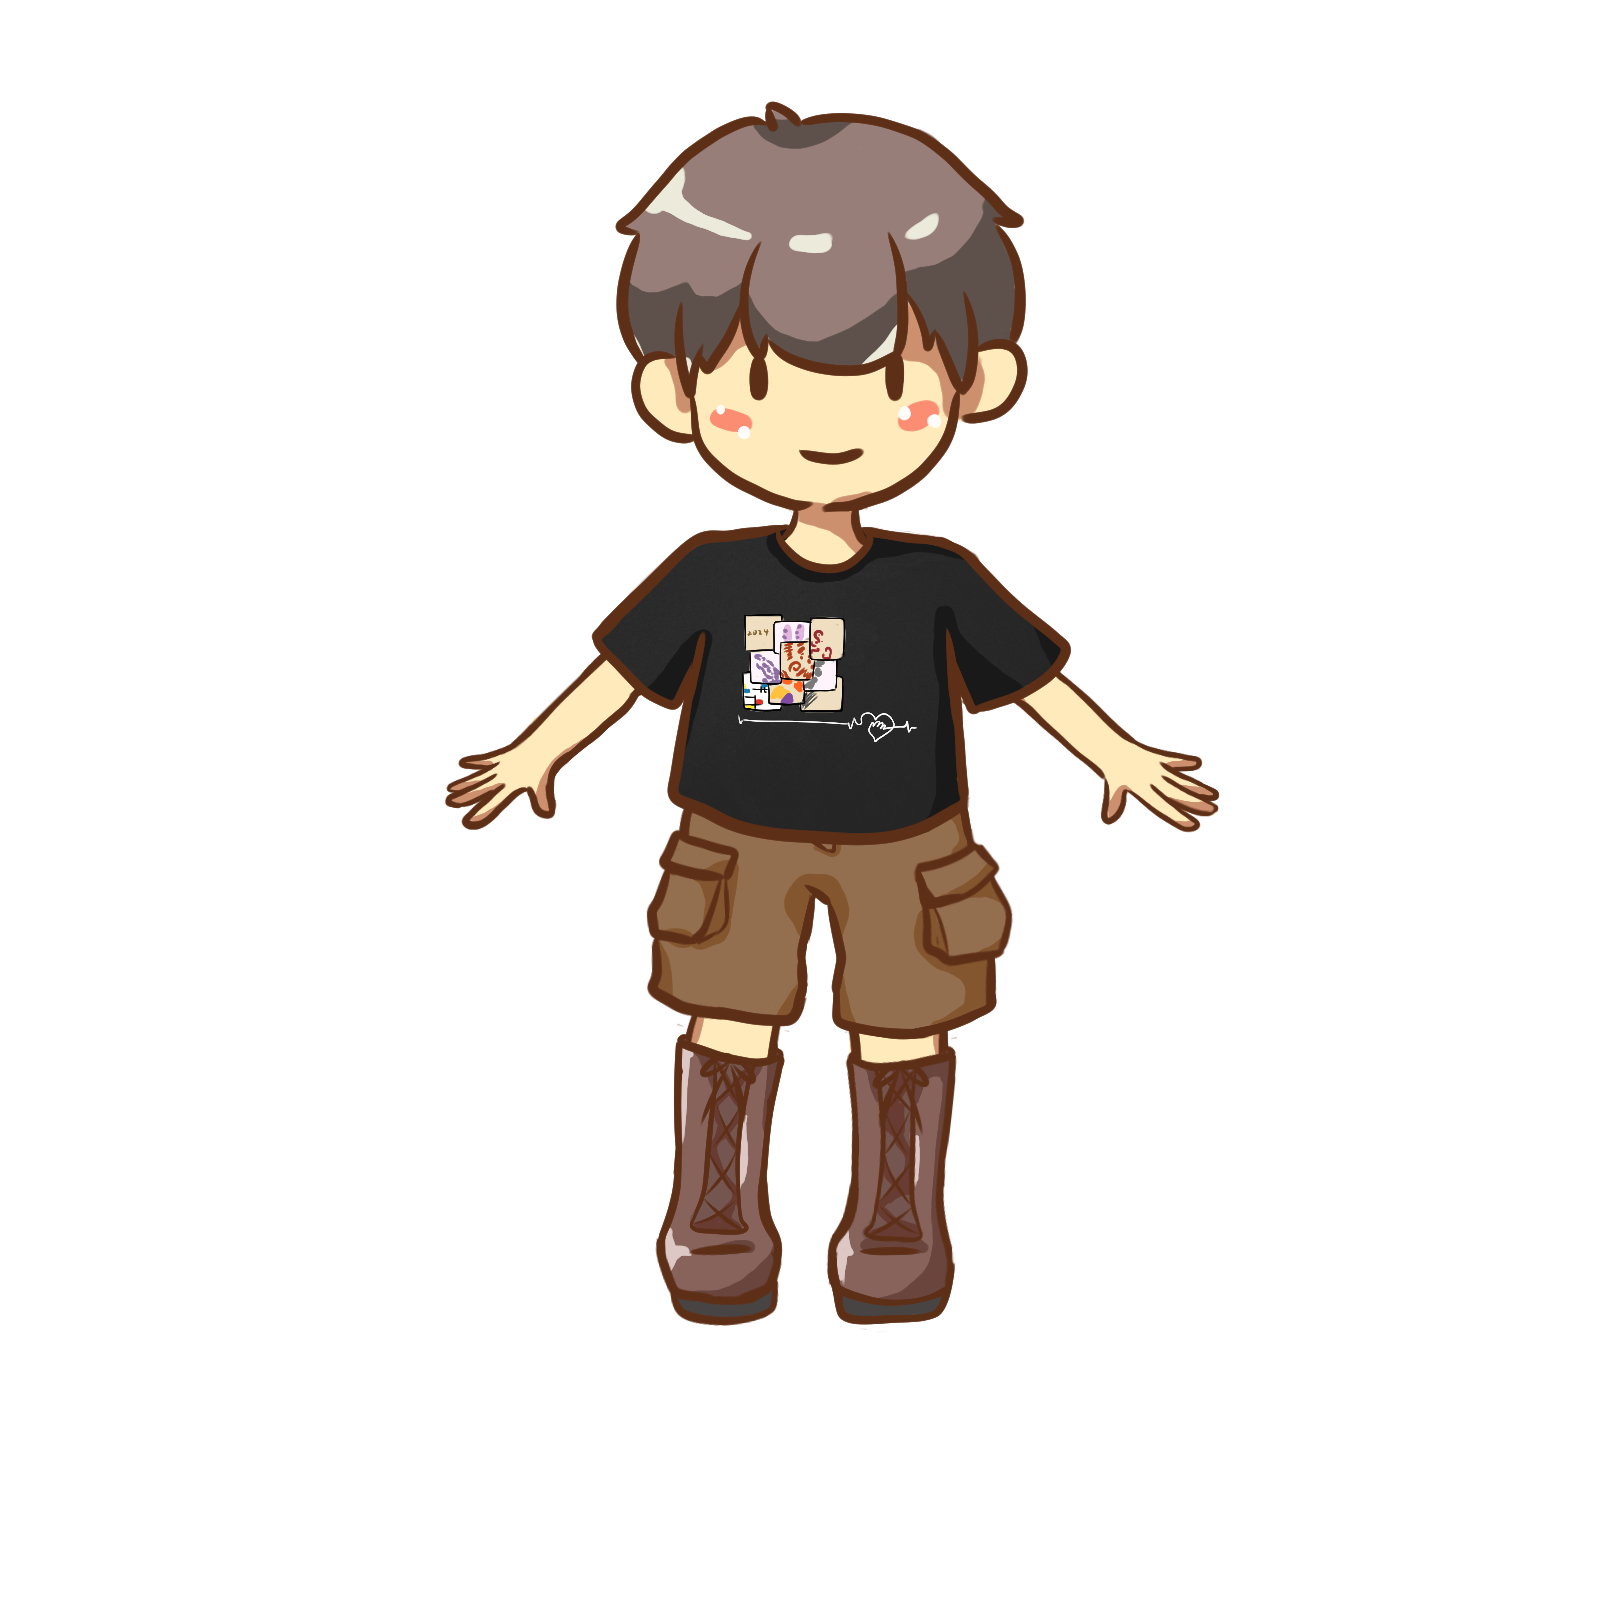
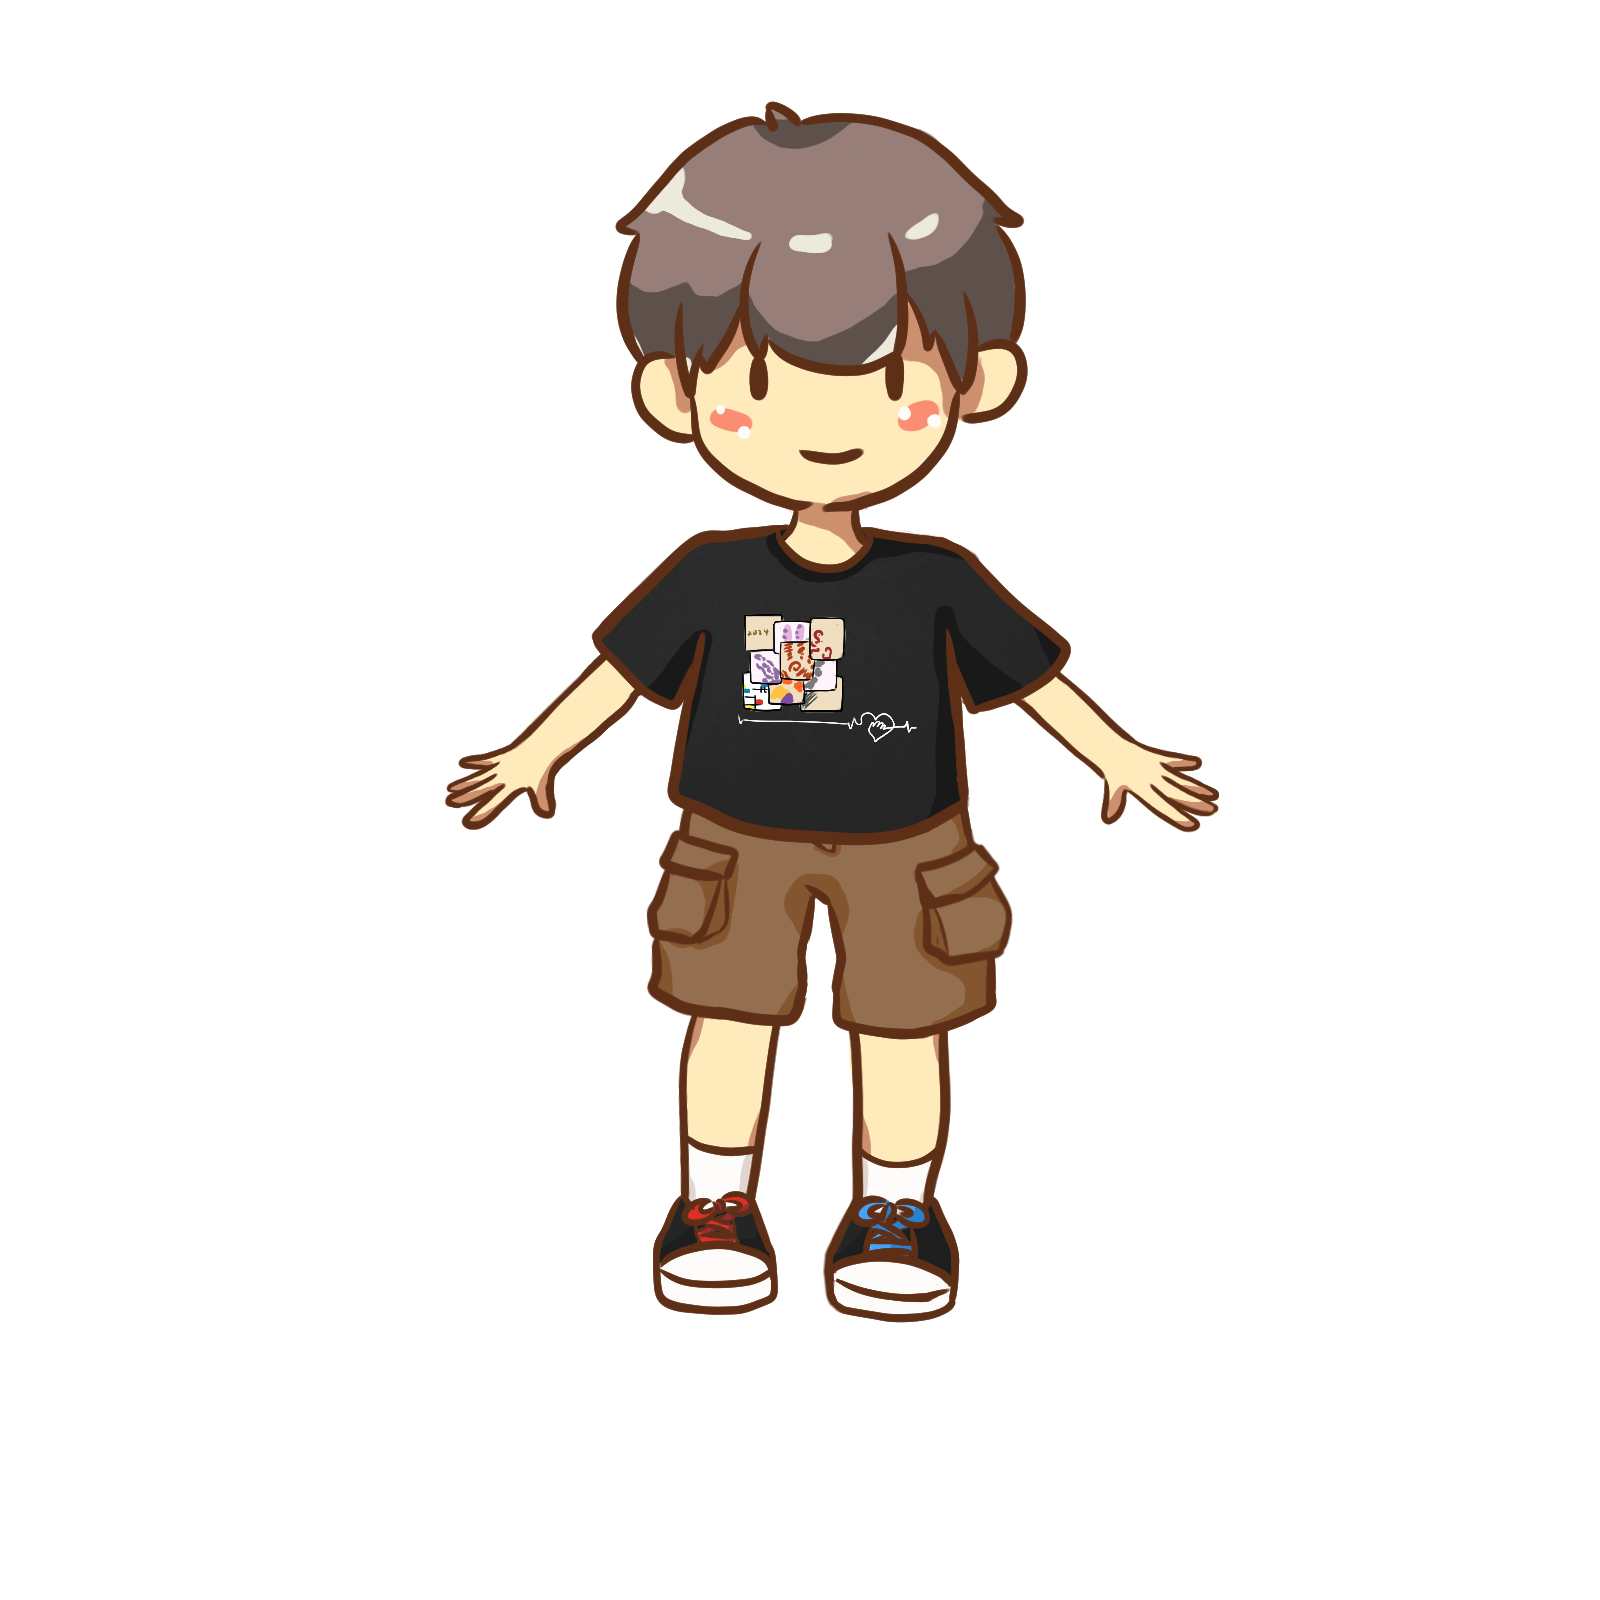
Replace character library + add side-flanking item display
Assets:
- Swap assets/characters/ for the larger 奇迹小语 final library: shoe digit
  is now 1..4 (with 5 retained only for two combos that lack a shoe-4 render)
- New assets/items/ with 12 standalone clothing pngs (top/bottom/shoe ×4)
  renamed to ASCII slot-N.png for friendly URL paths

Frontend:
- CATALOG entries now carry { item, label }; shoe digit 4 = 靴子 instead of 5
- SHOE4_FALLBACK swaps render to digit 5 for combos 144 and 414 only
- INCOMPATIBLE rules removed (legacy 短裤/裙子+皮鞋 etc no longer apply)
- Stage now has stage-items--left / --right columns: when a rail category
  is active, the matching 4 clothing PNGs fan out 2-per-side, current
  selection lights up pink. Stacks above stage on narrow viewports.

Backend:
- VALID_S widened to {1,2,3,4}; demo seed outfits remapped accordingly

Changed region(s): [[0.4062, 0.6562, 0.625, 0.8438]]

diff --git a/game.js b/game.js
@@ -9,23 +9,22 @@
   //   character file =  `${top??0}${bottom??0}${shoe??0}.png`
   const CATALOG = {
     top: [
-      { value: 1, src: "assets/signs/top-1.jpg" },
-      { value: 2, src: "assets/signs/top-2.jpg" },
-      { value: 3, src: "assets/signs/top-3.jpg" },
-      { value: 4, src: "assets/signs/top-4.jpg" },
+      { value: 1, src: "assets/signs/top-1.jpg",    item: "assets/items/top-1.png",    label: "羽绒服" },
+      { value: 2, src: "assets/signs/top-2.jpg",    item: "assets/items/top-2.png",    label: "T 恤" },
+      { value: 3, src: "assets/signs/top-3.jpg",    item: "assets/items/top-3.png",    label: "毛衣" },
+      { value: 4, src: "assets/signs/top-4.jpg",    item: "assets/items/top-4.png",    label: "衬衫" },
     ],
     bottom: [
-      { value: 1, src: "assets/signs/bottom-1.jpg" },
-      { value: 2, src: "assets/signs/bottom-2.jpg" },
-      { value: 3, src: "assets/signs/bottom-3.jpg" },
-      { value: 4, src: "assets/signs/bottom-4.jpg" },
+      { value: 1, src: "assets/signs/bottom-1.jpg", item: "assets/items/bottom-1.png", label: "牛仔裤" },
+      { value: 2, src: "assets/signs/bottom-2.jpg", item: "assets/items/bottom-2.png", label: "毛裤" },
+      { value: 3, src: "assets/signs/bottom-3.jpg", item: "assets/items/bottom-3.png", label: "短裤" },
+      { value: 4, src: "assets/signs/bottom-4.jpg", item: "assets/items/bottom-4.png", label: "裙子" },
     ],
-    // shoe digit "4" (靴子) intentionally absent — no rendered character images.
     shoe: [
-      { value: 1, src: "assets/signs/shoe-1.jpg" },
-      { value: 2, src: "assets/signs/shoe-2.jpg" },
-      { value: 3, src: "assets/signs/shoe-3.jpg" },
-      { value: 5, src: "assets/signs/shoe-5.png" },
+      { value: 1, src: "assets/signs/shoe-1.jpg",   item: "assets/items/shoe-1.png",   label: "皮鞋" },
+      { value: 2, src: "assets/signs/shoe-2.jpg",   item: "assets/items/shoe-2.png",   label: "高跟鞋" },
+      { value: 3, src: "assets/signs/shoe-3.jpg",   item: "assets/items/shoe-3.png",   label: "拖鞋" },
+      { value: 4, src: "assets/items/shoe-4.png",   item: "assets/items/shoe-4.png",   label: "靴子" },
     ],
   };
 
@@ -39,20 +38,10 @@
     shoe: null,
   };
 
-  // The artist did not draw certain bottom + shoe combinations:
-  //   毛裤(2) + 运动鞋(5)   ← no athletic-shoes-with-thermal-pants
-  //   短裤(3) + 皮鞋(1)     ← no leather-shoes-with-shorts
-  //   裙子(4) + 皮鞋(1)     ← no leather-shoes-with-skirt
-  const INCOMPATIBLE_BOTTOM_SHOE = {
-    2: new Set([5]),
-    3: new Set([1]),
-    4: new Set([1]),
-  };
-  function isShoeCompatible(shoeValue) {
-    if (state.bottom == null) return true;
-    const blocked = INCOMPATIBLE_BOTTOM_SHOE[state.bottom];
-    return !blocked || !blocked.has(shoeValue);
-  }
+  // Two combinations that don't have a `${t}${b}4.png` rendered: 144 and 414.
+  // For those we fall back to `${t}${b}5.png` which the asset folder still ships.
+  const SHOE4_FALLBACK = new Set(["14", "41"]);
+  function isShoeCompatible() { return true; }
 
   /* ── DOM refs ────────────────────────────────────────────────────────────── */
   const $character = document.getElementById("character");
@@ -200,6 +189,49 @@
       const btn = cat.querySelector(".rail__head-btn");
       if (btn) btn.setAttribute("aria-expanded", isOpen ? "true" : "false");
     });
+    syncStageItems();
+  }
+
+  /* ── Side item display (items flank the stage based on active rail) ──── */
+  const $stageItemsLeft  = document.getElementById("stageItemsLeft");
+  const $stageItemsRight = document.getElementById("stageItemsRight");
+  let renderedItemsSlot = null;
+
+  function renderStageItemsFor(slot) {
+    if (!$stageItemsLeft || !$stageItemsRight) return;
+    if (renderedItemsSlot === slot) return; // already rendered
+    renderedItemsSlot = slot;
+    const items = (CATALOG[slot] || []).filter(it => it.item);
+    // Two on each side; pad with blanks if fewer.
+    const left = items.slice(0, 2);
+    const right = items.slice(2, 4);
+    $stageItemsLeft.innerHTML  = left.map(itemCardHTML).join("");
+    $stageItemsRight.innerHTML = right.map(itemCardHTML).join("");
+  }
+  function itemCardHTML(it) {
+    return `<div class="stage-item" data-slot-value="${it.value}">
+      <img class="stage-item__img" src="${it.item}" alt="${it.label}" loading="lazy" draggable="false">
+      <span class="stage-item__label">${it.label}</span>
+    </div>`;
+  }
+  function syncStageItems() {
+    if (!$stageItemsLeft || !$stageItemsRight) return;
+    const slot = expandedSlot;
+    if (!slot || !isSlotEnabled(slot)) {
+      $stageItemsLeft.classList.remove("is-visible");
+      $stageItemsRight.classList.remove("is-visible");
+      return;
+    }
+    renderStageItemsFor(slot);
+    // Mark currently selected item active
+    const selected = state[slot];
+    [$stageItemsLeft, $stageItemsRight].forEach(box => {
+      box.querySelectorAll(".stage-item").forEach(el => {
+        const v = Number(el.dataset.slotValue);
+        el.classList.toggle("is-active", v === selected);
+      });
+      box.classList.add("is-visible");
+    });
   }
 
   function syncCardStates() {
@@ -218,6 +250,7 @@
       btn.dataset.locked = enabled ? "false" : "true";
       btn.dataset.incompatible = incompatible ? "true" : "false";
     });
+    syncStageItems();
   }
 
   function syncCategorySelectedFlag() {
@@ -242,7 +275,9 @@
     } else {
       const t = top ?? 0;
       const b = bottom ?? 0;
-      const s = shoe ?? 0;
+      let s = shoe ?? 0;
+      // 144 / 414 don't exist; the artist used digit 5 for those two combos.
+      if (s === 4 && SHOE4_FALLBACK.has(`${t}${b}`)) s = 5;
       nextSrc = `assets/characters/${t}${b}${s}.png`;
     }
 
@@ -675,15 +710,15 @@
     const paths = ["assets/characters/start.png", "assets/characters/000.png"];
     const tops = [1, 2, 3, 4];
     const bottoms = [1, 2, 3, 4];
-    const shoes = [1, 2, 3, 5];
+    const shoes = [1, 2, 3, 4];
     for (const t of tops) {
       paths.push(`assets/characters/${t}00.png`);
       for (const b of bottoms) {
         paths.push(`assets/characters/${t}${b}0.png`);
-        const blocked = INCOMPATIBLE_BOTTOM_SHOE[b] || new Set();
         for (const s of shoes) {
-          if (blocked.has(s)) continue;
-          paths.push(`assets/characters/${t}${b}${s}.png`);
+          // tb-only "144" / "414" combos render shoe digit 5 instead.
+          const sFinal = (s === 4 && SHOE4_FALLBACK.has(`${t}${b}`)) ? 5 : s;
+          paths.push(`assets/characters/${t}${b}${sFinal}.png`);
         }
       }
     }

diff --git a/styles.css b/styles.css
@@ -2704,3 +2704,112 @@ body::after {
 
 /* leave room for the absolutely-positioned button so it never overlaps text */
 .board__note { padding-bottom: 38px; }
+
+/* ───── Stage-flanking item display ─────────────────────── */
+.stage-items {
+  position: absolute;
+  top: 0;
+  width: 92px;
+  height: 100%;
+  display: flex;
+  flex-direction: column;
+  gap: 18px;
+  justify-content: center;
+  align-items: center;
+  pointer-events: none;
+  z-index: 4;
+  opacity: 0;
+  transition: opacity .35s var(--soft);
+}
+.stage-items--left  { left:  -110px; }
+.stage-items--right { right: -110px; }
+.stage-items.is-visible { opacity: 1; }
+.stage-item {
+  position: relative;
+  width: 100%;
+  aspect-ratio: 1 / 1;
+  background: var(--cream);
+  border: 2px solid var(--ink);
+  border-radius: 18px;
+  box-shadow: 3px 3px 0 var(--ink);
+  display: grid;
+  place-items: center;
+  padding: 6px;
+  transform-origin: center center;
+  animation: itemPop .55s var(--bounce) both;
+}
+.stage-item__img {
+  max-width: 88%;
+  max-height: 88%;
+  object-fit: contain;
+  user-select: none;
+  -webkit-user-drag: none;
+}
+.stage-item__label {
+  position: absolute;
+  bottom: -10px;
+  left: 50%;
+  transform: translateX(-50%);
+  background: var(--bloom);
+  color: var(--cream);
+  font-family: var(--hand);
+  font-weight: 700;
+  font-size: 11px;
+  padding: 2px 9px;
+  border: 1.5px solid var(--ink);
+  border-radius: 999px;
+  box-shadow: 1.5px 1.5px 0 var(--ink);
+  white-space: nowrap;
+  letter-spacing: .04em;
+}
+.stage-item.is-active {
+  background: linear-gradient(135deg, #FFE8EF 0%, var(--cream) 100%);
+  border-color: var(--bloom-deep);
+  box-shadow: 4px 4px 0 var(--bloom-deep);
+  transform: rotate(-2deg) scale(1.06);
+}
+.stage-item.is-active .stage-item__label {
+  background: var(--leaf);
+  border-color: var(--leaf-deep);
+  box-shadow: 1.5px 1.5px 0 var(--leaf-deep);
+}
+.stage-item:nth-child(odd)  { transform: rotate(-2deg); }
+.stage-item:nth-child(even) { transform: rotate( 2deg); }
+.stage-item:nth-child(odd).is-active  { transform: rotate(-2deg) scale(1.06); }
+.stage-item:nth-child(even).is-active { transform: rotate( 2deg) scale(1.06); }
+@keyframes itemPop {
+  0%   { opacity: 0; transform: rotate(0deg) translateY(20px) scale(.6); }
+  60%  { opacity: 1; transform: rotate(-2deg) translateY(-3px) scale(1.04); }
+  100% { opacity: 1; }
+}
+.stage-items--left  .stage-item:nth-child(1) { animation-delay: .05s; }
+.stage-items--left  .stage-item:nth-child(2) { animation-delay: .15s; }
+.stage-items--right .stage-item:nth-child(1) { animation-delay: .10s; }
+.stage-items--right .stage-item:nth-child(2) { animation-delay: .20s; }
+
+/* shrink the side panel proportionally on narrower viewports */
+@media (max-width: 1280px) {
+  .stage-items { width: 76px; gap: 12px; }
+  .stage-items--left  { left:  -88px; }
+  .stage-items--right { right: -88px; }
+  .stage-item__label { font-size: 10px; padding: 1px 7px; }
+}
+@media (max-width: 1060px) {
+  /* In stacked mobile layout, reposition items as a row above the stage */
+  .stage-items {
+    position: static;
+    width: auto;
+    height: auto;
+    flex-direction: row;
+    gap: 10px;
+    justify-content: center;
+    margin: 0;
+  }
+  .stage-items--left  { order: -2; margin-bottom: -4px; }
+  .stage-items--right { order: -1; margin-bottom: 12px; }
+  .stage-item { width: 64px; }
+}
+@media (max-width: 720px) {
+  .stage-item { width: 54px; }
+  .stage-item__label { font-size: 9px; }
+}

diff --git a/index.html b/index.html
@@ -210,6 +210,8 @@
       </aside>
 
       <section class="stage-wrap" aria-label="角色展示">
+        <div class="stage-items stage-items--left"  id="stageItemsLeft"  aria-hidden="true"></div>
+        <div class="stage-items stage-items--right" id="stageItemsRight" aria-hidden="true"></div>
         <div class="stage">
           <div class="stage__bubble" aria-hidden="true"></div>
           <div class="stage__sunbeam" aria-hidden="true"></div>
